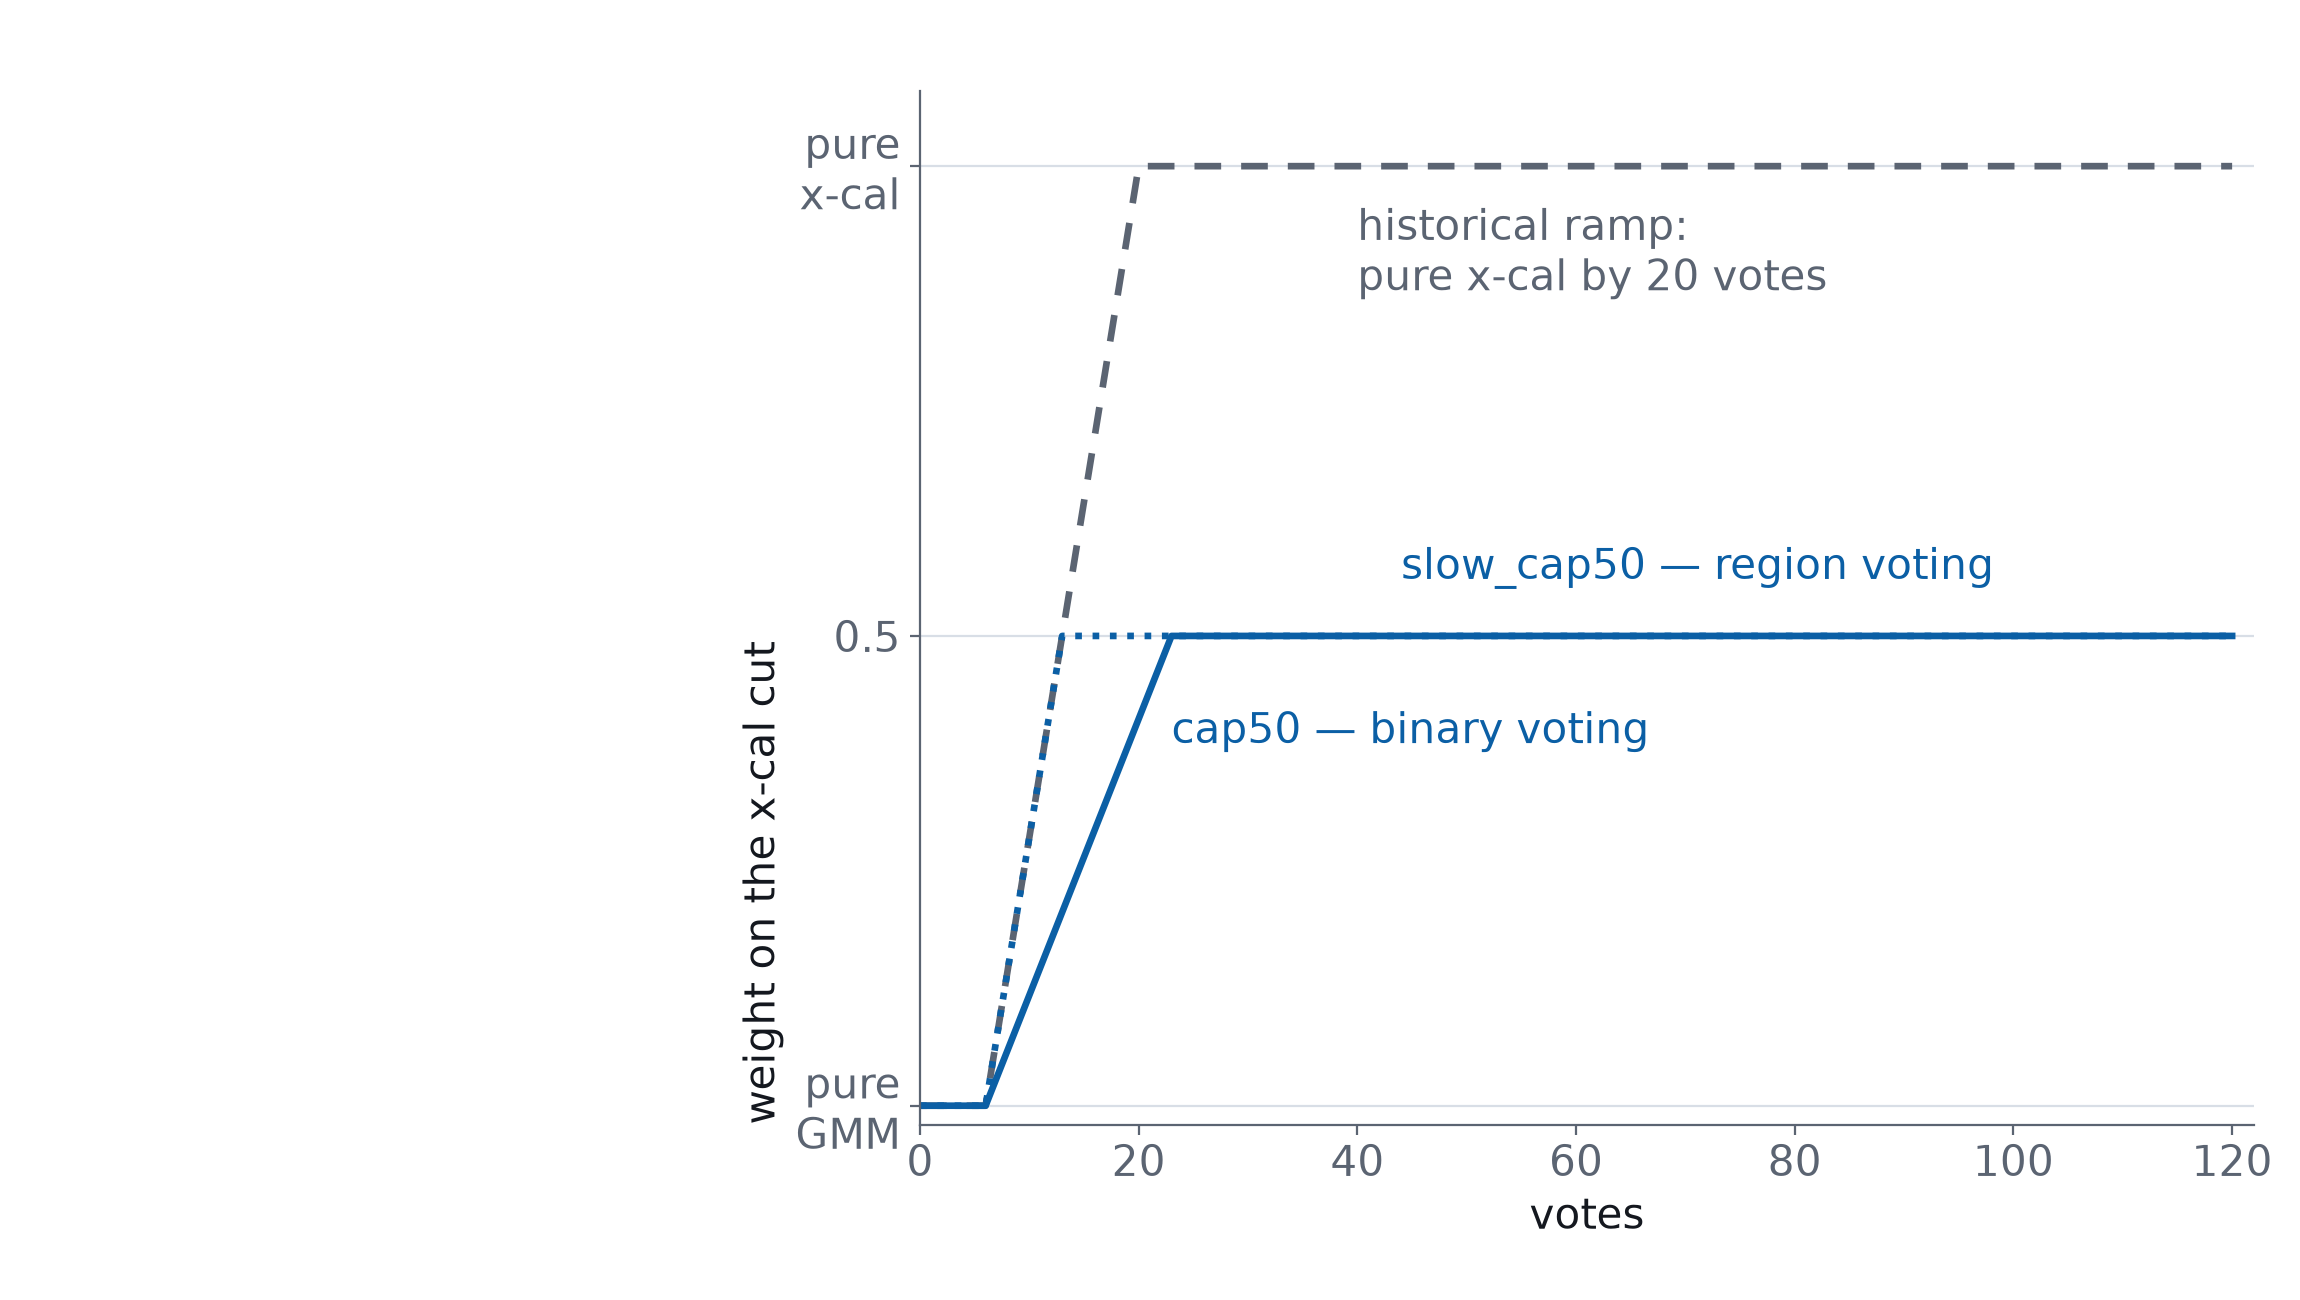
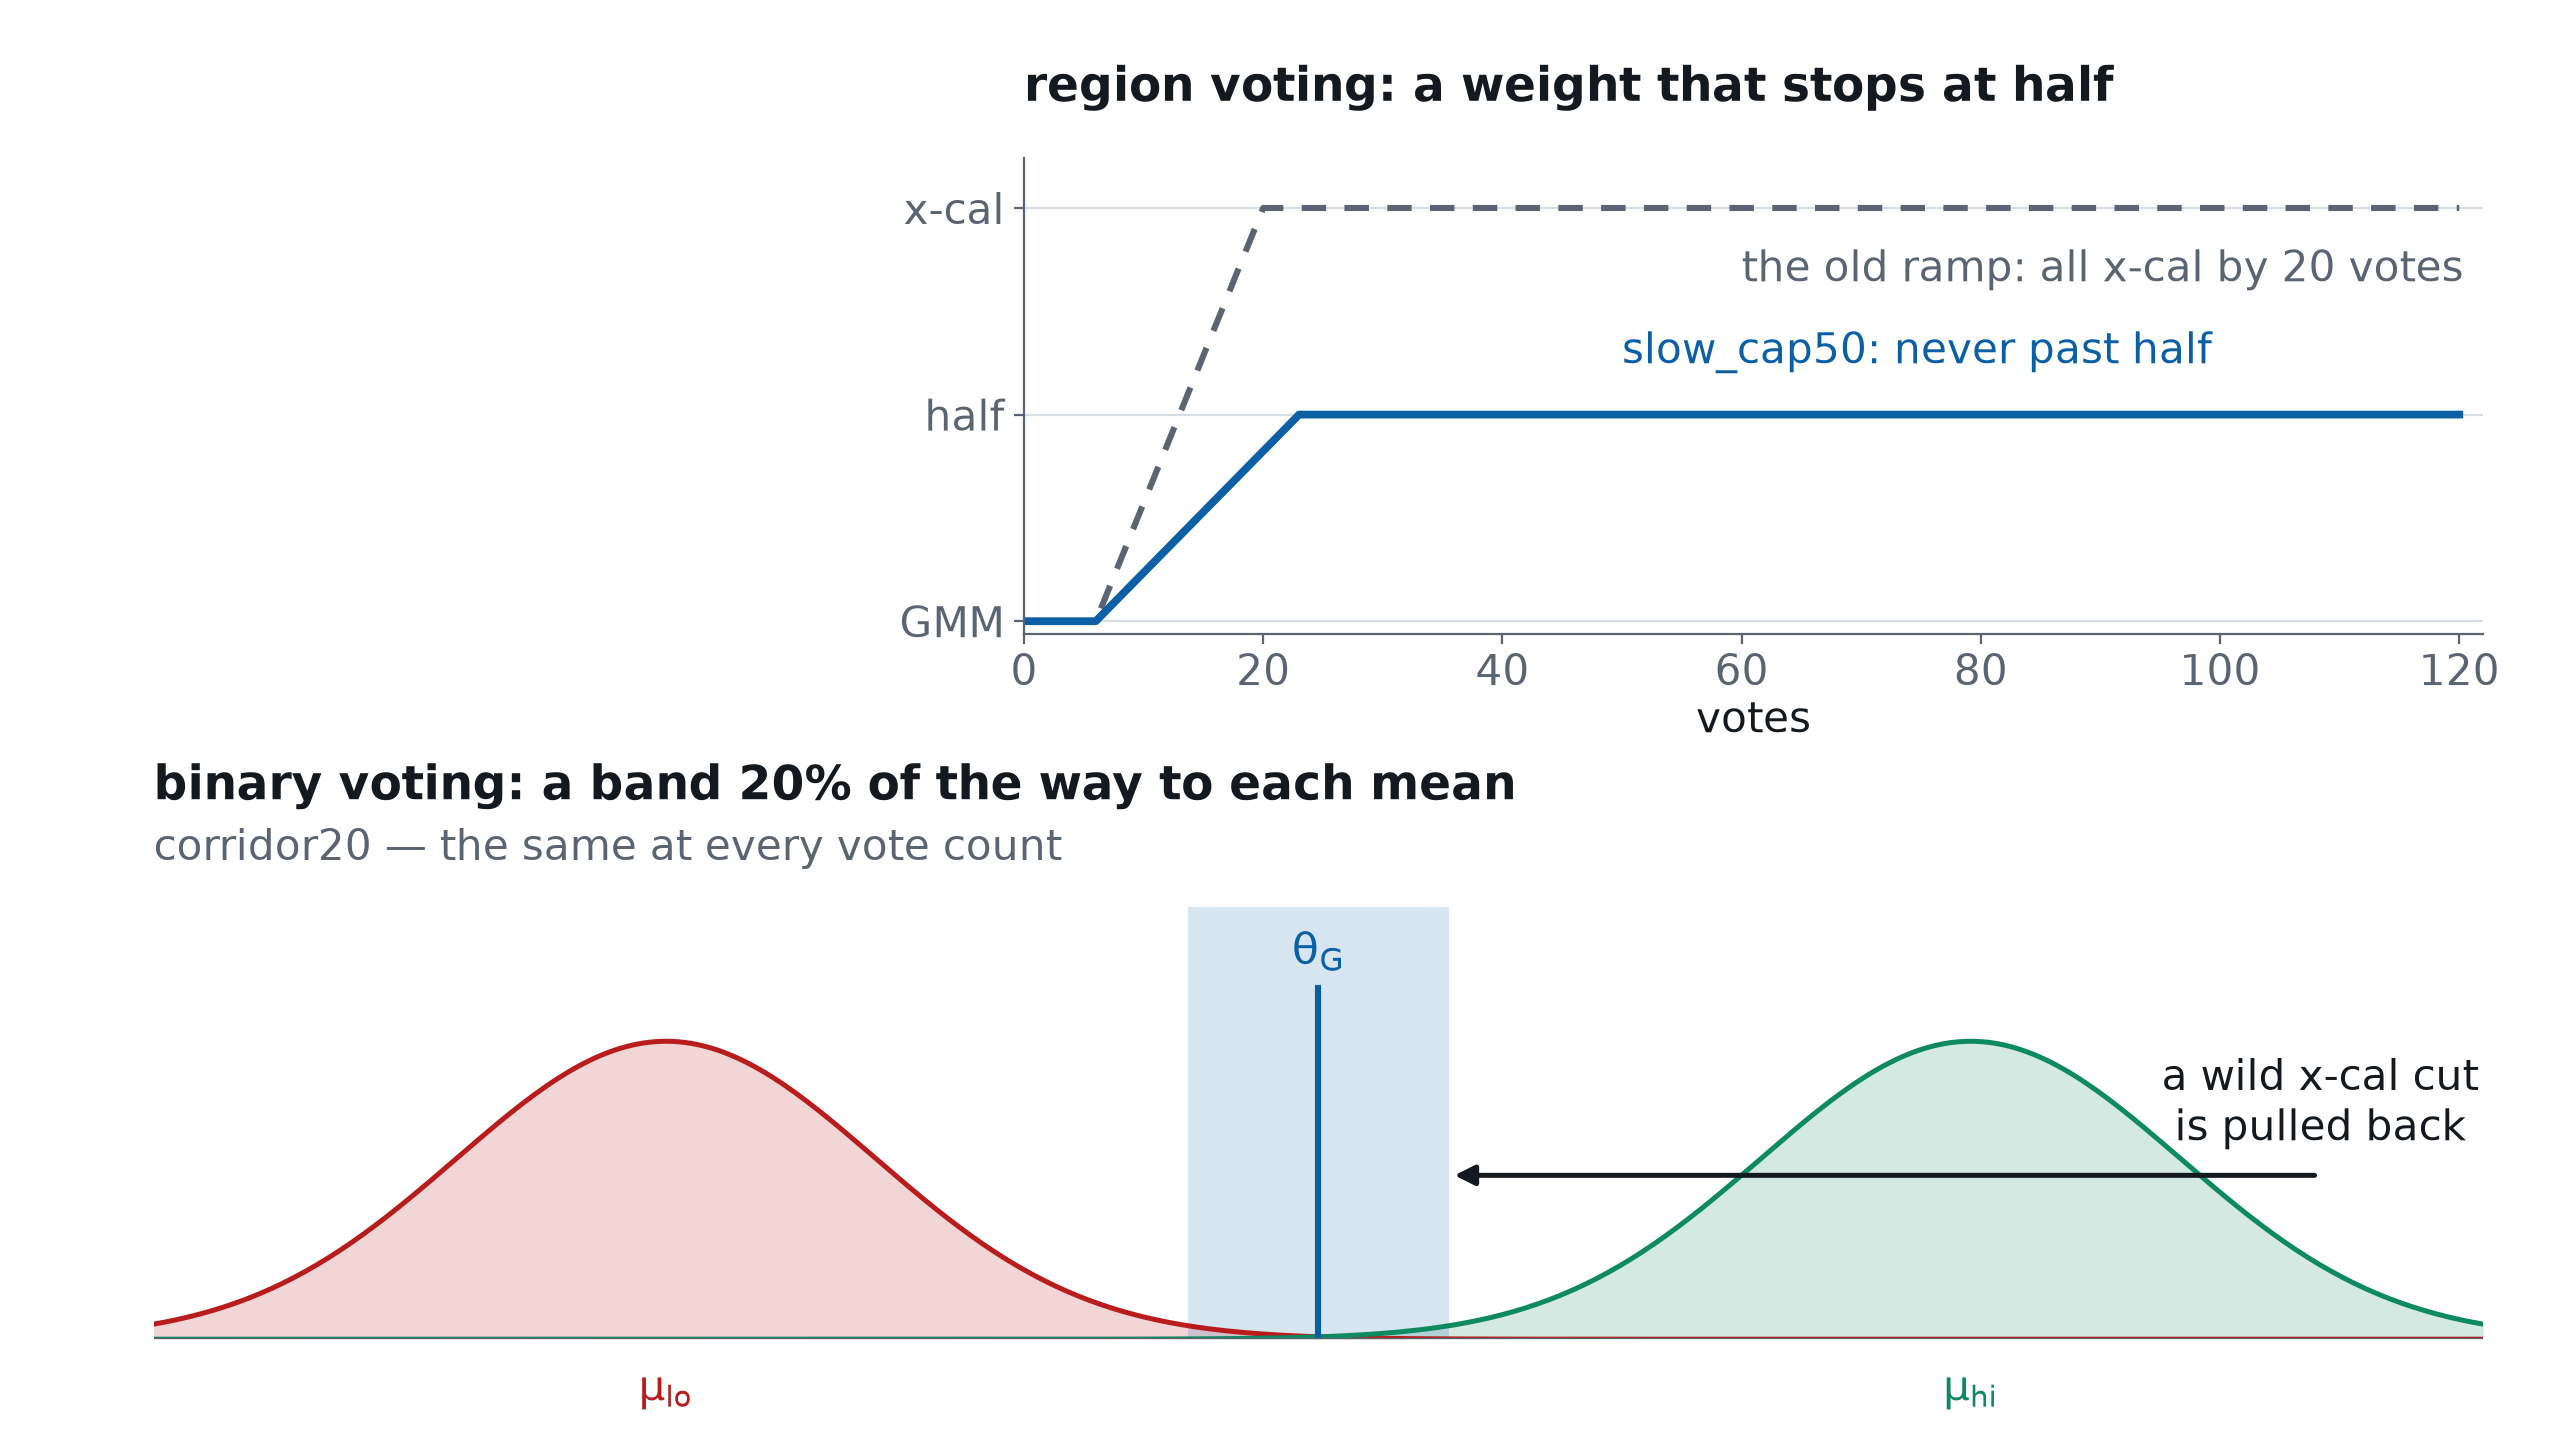
slides: redraw the blend schedule from the shipped code; retitle 19-23
Slide 13 still drew cap50 as the binary-voting schedule. Binary has
shipped corridor20 since #3551, and a corridor is a clamp rather than a
weight, so a weight-over-votes plot cannot show it. The figure is now two
panels computed from production_schedule_for: region voting's slow_cap50
weight against the historical ramp, and binary voting's corridor20 band on
the score axis. The notes say where the blend lives now: the fused cut
replaced it, and this is its fallback for sessions too young to form folds.

Titles: Sunk Cost, At All Costs, Drop Me A Line, Walk the Line, Second Cut.

Claude-Session: https://claude.ai/code/session_014JBHgZWy5NLFcomscNSakK

diff --git a/slides/figs/src/make-calib-figs.py b/slides/figs/src/make-calib-figs.py
@@ -3707,45 +3707,92 @@ def _acq_flow_stage(stage: int, folds: list, final: np.ndarray) -> plt.Figure:
 
 
 def blend_schedule_fig() -> None:
+    """Slide 13: how far the blend lets the cross-calibrated cut move, per voting mode.
+
+    Two panels, because the two modes no longer share a *kind* of schedule and
+    one set of axes would force them to. Region voting still averages, so its
+    panel is a weight over votes: ``slow_cap50`` against the historical ramp it
+    replaced. Binary voting ships ``corridor20`` (#3551), which is a clamp, not
+    a weight — a weight axis cannot draw it — so its panel is the score axis
+    itself, with the band the x-cal cut is kept inside.
+
+    Everything here is computed from the shipped registry
+    (`production_schedule_for`), so the slide moves when the schedule does.
+    """
+    from types import SimpleNamespace
+
+    from vtscore.training.blend_schedules import production_schedule_for
+
+    region = production_schedule_for(region_voting=True)
+    binary = production_schedule_for(region_voting=False)
+
+    fig = plt.figure(figsize=(12.8, 7.2))
+    # ── left: region voting, a weight over votes ─────────────────────────────
+    ax = fig.add_axes([0.40, 0.56, 0.57, 0.33])
     n = np.arange(0, 121)
-    fig, ax = plt.subplots(figsize=(11.5, 6.5))
-    for name, color, style, label, xy, ha, va in (
-        ("prod", SOFT, (0, (4, 3)), "historical ramp:\npure x-cal by 20 votes", (40, 0.96), "left", "top"),
-        ("cap50", BLUE, (0, (1, 1.6)), "cap50 — binary voting", (23, 0.42), "left", "top"),
-        ("slow_cap50", BLUE, "solid", "slow_cap50 — region voting", (44, 0.55), "left", "bottom"),
-    ):
-        w = [
+
+    def curve(name: str) -> list[float]:
+        return [
             get_schedule(name).weight(BlendContext(n_labels=int(k), n_good=int(k) // 2, n_bad=int(k) - int(k) // 2))
             for k in n
         ]
-        ax.plot(n, w, color=color, linestyle=style, linewidth=2.4)
-        ax.annotate(label, xy=xy, ha=ha, va=va, fontsize=15, color=color)
+
+    ax.plot(n, curve("prod"), color=SOFT, linestyle=(0, (4, 3)), linewidth=2.2)
+    ax.plot(n, curve(region), color=BLUE, linewidth=2.8)
+    ax.annotate("the old ramp: all x-cal by 20 votes", xy=(60, 0.90), ha="left", va="top", fontsize=15, color=SOFT)
+    ax.annotate(
+        f"{region}: never past half", xy=(50, 0.5), xytext=(50, 0.60), ha="left", va="bottom", fontsize=15, color=BLUE
+    )
     ax.set_xlim(0, 122)
-    ax.set_ylim(-0.02, 1.08)
-    ax.set_yticks([0, 0.5, 1.0], ["pure\nGMM", "0.5", "pure\nx-cal"])
-    ax.set_xlabel("votes")
-    # Short enough not to overflow the (shortened) axes above the title notch;
-    # the tick labels already read "pure GMM" to "pure x-cal", so the axis name
-    # only has to name the quantity, not re-explain the ends.
-    # Anchored to the bottom of the axis, out of the title reserve's own band:
-    # the reserve is only the *top* left corner, so a label that lives low on
-    # the left costs the drawing nothing.
-    ax.set_ylabel("weight on the x-cal cut", loc="bottom")
+    ax.set_ylim(-0.03, 1.12)
+    ax.set_yticks([0, 0.5, 1.0], ["GMM", "half", "x-cal"])
+    ax.set_xlabel("votes", labelpad=2)
     ax.grid(axis="y", color=RULE, linewidth=0.8)
     ax.set_axisbelow(True)
-    # Full-bleed: no in-figure title (the slide's headline is the title, drawn
-    # over the top-left corner), and the axes are *indented* past the reserve
-    # rather than pushed under it. Pushing the plot down to `top=0.55` cleared
-    # the corner by spending half the slide, which `slides/STYLE.md` names as
-    # the wrong repair for exactly this shape: the blocker is horizontal, so
-    # the fix is horizontal (#3246).
-    # Indented past the title reserve, which ends at figure x 0.281 here — and
-    # further than the reserve alone needs. Centring the y-label on its axis
-    # (rather than parking it at the bottom, as it used to be) puts a 2.4-inch
-    # rotated string across the middle of the left margin, and the only way a
-    # *centred* label clears the reserve is horizontally. The width this costs
-    # the plot goes to the legend, which lives in the same margin.
-    fig.subplots_adjust(left=0.40, right=0.98, top=0.93, bottom=0.135)
+    fig.text(
+        0.40, 0.955, "region voting: a weight that stops at half", fontsize=17, fontweight="bold", color=INK, va="top"
+    )
+
+    # ── right: binary voting, a clamp on the score axis ──────────────────────
+    ax = fig.add_axes([0.06, 0.07, 0.91, 0.30])
+    mu_lo, mu_hi, sd = 0.22, 0.78, 0.09
+    xs = np.linspace(0, 1, 400)
+    for mu, colour in ((mu_lo, RED), (mu_hi, GREEN)):
+        ax.fill_between(xs, 0, np.exp(-0.5 * ((xs - mu) / sd) ** 2), color=colour, alpha=0.18, linewidth=0)
+        ax.plot(xs, np.exp(-0.5 * ((xs - mu) / sd) ** 2), color=colour, linewidth=1.8)
+    fit = SimpleNamespace(mu_lo=mu_lo, mu_hi=mu_hi)
+    gmm = (mu_lo + mu_hi) / 2
+    ctx = BlendContext(n_labels=10, n_good=5, n_bad=5)
+    schedule = get_schedule(binary)
+    lo_edge = schedule.combine(-10.0, gmm, ctx, fit)
+    hi_edge = schedule.combine(10.0, gmm, ctx, fit)
+    ax.axvspan(lo_edge, hi_edge, color=BLUE, alpha=0.16, linewidth=0)
+    ax.plot([gmm, gmm], [0, 1.18], color=BLUE, linewidth=2.2)
+    ax.text(gmm, 1.22, _sub(r"\theta_G"), ha="center", va="bottom", fontsize=16, color=BLUE)
+    ax.text(mu_lo, -0.10, _sub(r"\mu_{lo}"), ha="center", va="top", fontsize=15, color=RED)
+    ax.text(mu_hi, -0.10, _sub(r"\mu_{hi}"), ha="center", va="top", fontsize=15, color=GREEN)
+    ax.annotate(
+        "",
+        xy=(hi_edge, 0.55),
+        xytext=(0.93, 0.55),
+        arrowprops={"arrowstyle": "-|>", "color": INK, "linewidth": 1.8},
+    )
+    ax.text(0.93, 0.62, "a wild x-cal cut\nis pulled back", ha="center", va="bottom", fontsize=15, color=INK)
+    ax.set_xlim(0, 1)
+    ax.set_ylim(0, 1.45)
+    ax.axis("off")
+    ax.plot([0, 1], [0, 0], color=SOFT, linewidth=1.2)
+    width = round((hi_edge - gmm) / (mu_hi - gmm), 2)
+    fig.text(
+        0.06,
+        0.47,
+        f"binary voting: a band {width:.0%} of the way to each mean",
+        fontsize=17,
+        fontweight="bold",
+        color=INK,
+        va="top",
+    )
+    fig.text(0.06, 0.425, f"{binary} — the same at every vote count", fontsize=15, color=SOFT, va="top")
     save(fig, OUT, "calib-blend-schedule.png", column=FULL_BLEED, tight=False)
 
 

diff --git a/slides/fragments/blend-schedule.md b/slides/fragments/blend-schedule.md
@@ -8,9 +8,9 @@
      average, so pick the weight. The two estimators are good at opposite ends
      of a session, so it should move as votes accumulate. -->
 
-<!-- Here is how it moves. The family of curves is what the sweep chose:
-     cross-calibration climbing early and then — this is the surprise —
-     *stopping* at half weight for the rest of the session. -->
+<!-- Top, region voting: the weight climbs from six votes and then — this is
+     the surprise — *stops* at half, for the rest of the session. The dashed
+     line is where it started: all cross-calibration by twenty votes. -->
 
 <!-- The intuition is the transferable part. Every schedule that fully hands
      over gives its advantage back at the moment it does, monotone in when the
@@ -19,6 +19,11 @@
      hundred clicks buys a median of about thirteen positives, and the learned
      cut converges in positives, not in clicks. -->
 
-<!-- If anyone asks for numbers: nine schedules swept at ten times the original
-     horizon; one capped schedule for region voting at −0.058, a different one
-     for binary at −0.019. The two voting modes want different curves. -->
+<!-- Bottom, binary voting: not a weight at all. The cross-calibrated cut is
+     taken as it is inside a band around the mixture's cut, a fifth of the way
+     to each component mean, and a wild one is pulled back to the edge. The two
+     voting modes want different kinds of schedule, not just different curves. -->
+
+<!-- Say where this lives now: the fused cut on the next slide replaced the blend.
+     What is drawn here is its fallback, for sessions too young to form folds —
+     around one step in a hundred on binary voting. -->

diff --git a/slides/fragments/inclusion-acq.md b/slides/fragments/inclusion-acq.md
@@ -2,7 +2,7 @@
 
 ![bg fit](figs/calib-acq-flow.png)
 
-## Compound<br>Interest
+## Second Cut
 
 <!-- build: figs/calib-acq-flow.build1.png -->
 

diff --git a/slides/fragments/inclusion-cost.md b/slides/fragments/inclusion-cost.md
@@ -2,7 +2,7 @@
 
 ![bg fit](figs/calib-cost-knob.png)
 
-## Pick Your<br>Poison
+## Sunk Cost
 
 <!-- build: figs/calib-cost-knob.build1.png -->
 

diff --git a/slides/fragments/inclusion-walk.md b/slides/fragments/inclusion-walk.md
@@ -2,7 +2,7 @@
 
 ![bg fit](figs/calib-walk-flow.png)
 
-## Walk the Line
+## Drop Me A Line
 
 <!-- build: figs/calib-walk-flow.build1.png -->
 

diff --git a/slides/fragments/inclusion-knob.md b/slides/fragments/inclusion-knob.md
@@ -2,7 +2,7 @@
 
 ![bg fit](figs/calib-knob-flow.png)
 
-## Cost Cutting
+## At All Costs
 
 <!-- build: figs/calib-knob-flow.build1.png -->
 

diff --git a/slides/fragments/inclusion-tilt.md b/slides/fragments/inclusion-tilt.md
@@ -2,7 +2,7 @@
 
 ![bg fit](figs/calib-tilt-flow.png)
 
-## On Tilt
+## Walk the Line
 
 <!-- build: figs/calib-tilt-flow.build1.png -->
 
